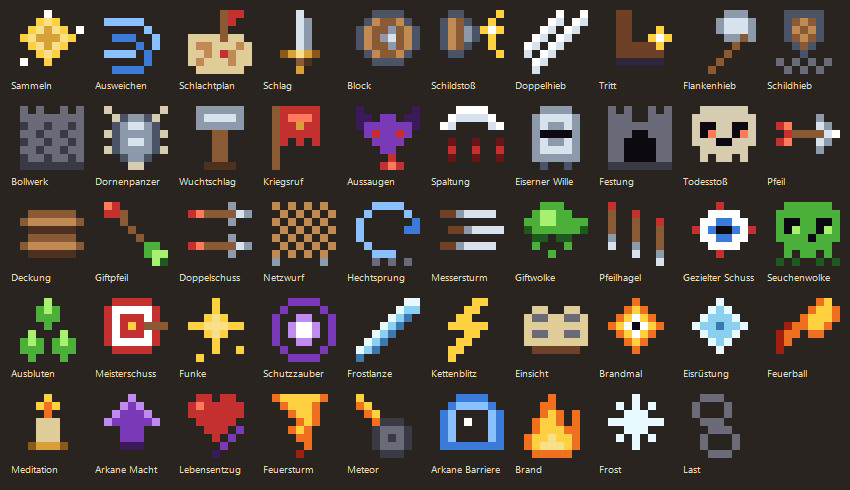
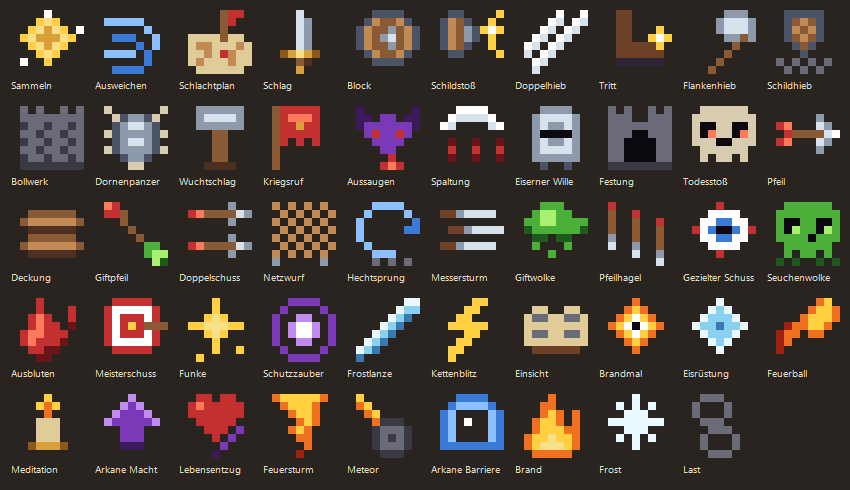
Bleeding status for Ausbluten; 8-bit card style with pixel frames and pixel fonts

Changed region(s): [[0.0, 0.6122, 0.0918, 0.7653]]

diff --git a/ui/style.css b/ui/style.css
@@ -134,63 +134,66 @@ svg.map { width: 100%; height: auto; display: block; }
 .hint { text-align: center; color: var(--acc); font-weight: 700; margin-top: 6px; }
 .hand { display: flex; gap: 12px; padding: 20px 8px 12px; justify-content: center; min-height: 216px; flex-wrap: wrap; }
 
-/* Cards. Frame shape and colour by type (--ct), background tint by owning
-   character (--oc), trim and gem by rarity (--rc). Icons are 8x8, shown 6x. */
+/* Cards, 8-bit style: pixel frame per type (border-image, 12x12 shown 2x),
+   flat colours, dithered background tinted by the owning character (--oc),
+   trim and gem by rarity (--rc), pixel font. Icons are 8x8, shown 6x. */
 .card {
-  position: relative; flex: 0 0 132px; width: 132px; height: 196px; padding: 0 0 14px;
+  --px: 2px;
+  position: relative; flex: 0 0 132px; width: 132px; height: 196px; padding: 0 0 12px;
   display: flex; flex-direction: column; text-align: left; color: var(--ink);
-  background:
-    radial-gradient(120% 55% at 50% 0%, color-mix(in srgb, var(--oc) 80%, transparent), transparent 75%),
-    repeating-linear-gradient(45deg, #ffffff06 0 2px, transparent 2px 6px),
-    linear-gradient(180deg, #1d1a1f, #110f13);
-  border: 2px solid var(--rc); border-radius: 10px;
-  box-shadow: inset 0 0 0 2px #0a0809, inset 0 0 0 3px color-mix(in srgb, var(--ct) 75%, #000), 0 4px 10px #0009;
-  transition: transform .15s, box-shadow .15s, filter .15s;
+  font-family: 'Pixelify Sans', var(--fb);
+  border: 8px solid transparent; border-image: url(assets/karten/rahmen_s.png) 4 / 8px stretch;
+  background: repeating-conic-gradient(var(--oc) 0 25%, #141016 0 50%) 0 0 / 4px 4px;
+  background-clip: padding-box; image-rendering: pixelated;
+  filter: drop-shadow(0 4px 0 #0008);
+  transition: transform .12s steps(3);
 }
-button.card:hover:not(:disabled) { transform: translateY(-8px); filter: brightness(1.08); }
-.card.sel { transform: translateY(-16px); box-shadow: inset 0 0 0 2px #0a0809, inset 0 0 0 3px var(--ct), 0 0 0 2px var(--acc), 0 10px 22px #000a; }
-button.card:disabled { opacity: .42; cursor: default; }
+button.card:hover:not(:disabled) { transform: translateY(-8px); }
+.card.sel { transform: translateY(-16px); outline: 2px solid var(--acc); outline-offset: 2px; }
+button.card:disabled { opacity: .45; cursor: default; }
 .cost {
-  position: absolute; z-index: 2; top: 4px; left: 4px; width: 26px; height: 26px; border-radius: 50%;
-  background: radial-gradient(circle at 35% 30%, #ffe9a8, var(--gold) 60%, #8a6a20); color: #251a05;
-  font-family: var(--fd); font-weight: 800; font-size: 1.05rem; display: grid; place-items: center;
-  border: 2px solid #0a0809;
+  position: absolute; z-index: 2; top: -4px; left: -4px; width: 24px; height: 24px;
+  background: #d8a038; color: #251a05; border: 2px solid #0a0809;
+  box-shadow: inset 2px 2px 0 #f8e08a, inset -2px -2px 0 #8a5a1a;
+  clip-path: polygon(2px 0, calc(100% - 2px) 0, calc(100% - 2px) 2px, 100% 2px, 100% calc(100% - 2px), calc(100% - 2px) calc(100% - 2px), calc(100% - 2px) 100%, 2px 100%, 2px calc(100% - 2px), 0 calc(100% - 2px), 0 2px, 2px 2px);
+  font-family: 'VT323', monospace; font-size: 1.35rem; line-height: 1; display: grid; place-items: center;
 }
 .cn {
-  margin: 6px 6px 0 14px; padding: 3px 8px 3px 18px; min-height: 22px;
-  background: linear-gradient(180deg, color-mix(in srgb, var(--ct) 85%, #fff2), color-mix(in srgb, var(--ct) 60%, #000));
-  clip-path: polygon(0 0, 100% 0, calc(100% - 6px) 50%, 100% 100%, 0 100%);
-  font-family: var(--fd); font-weight: 700; font-size: .98rem; line-height: 1.05; color: #fff6e6; text-shadow: 0 1px 0 #0008;
-  white-space: nowrap; overflow: hidden; text-overflow: ellipsis;
+  margin: 0 0 0 20px; padding: 3px 6px; min-height: 20px;
+  background: var(--ct); box-shadow: inset 0 2px 0 #ffffff40, inset 0 -2px 0 #00000059;
+  clip-path: polygon(0 0, 100% 0, 100% calc(100% - 4px), calc(100% - 2px) calc(100% - 4px), calc(100% - 2px) calc(100% - 2px), calc(100% - 4px) calc(100% - 2px), calc(100% - 4px) 100%, 0 100%);
+  font-weight: 700; font-size: .9rem; line-height: 1.05; color: #fff6e6; text-shadow: 1px 1px 0 #000;
+  white-space: nowrap; overflow: hidden;
 }
-.cn.long { font-size: .8rem; line-height: .95; white-space: normal; padding-top: 3px; padding-bottom: 2px; display: flex; align-items: center; }
+.cn.long { font-size: .7rem; line-height: 1; white-space: normal; display: flex; align-items: center; letter-spacing: -.02em; }
 .art {
-  margin: 5px 9px 0; height: 58px; display: grid; place-items: center; border: 1px solid var(--rc); border-radius: 4px;
-  background: radial-gradient(circle at 50% 45%, color-mix(in srgb, var(--ct) 55%, transparent), transparent 70%), #0b0a0d;
-  box-shadow: inset 0 0 0 1px #000, inset 0 0 14px #000d;
+  margin: 4px 4px 0; height: 58px; display: grid; place-items: center;
+  border: 2px solid var(--rc); box-shadow: inset 0 0 0 2px #000;
+  background: repeating-conic-gradient(color-mix(in srgb, var(--ct) 22%, #0b0a0d) 0 25%, #0b0a0d 0 50%) 0 0 / 4px 4px;
 }
-.art img { width: 48px; height: 48px; image-rendering: pixelated; filter: drop-shadow(0 2px 0 #000a); }
-.ct { margin-top: 4px; text-align: center; font-size: .6rem; text-transform: uppercase; letter-spacing: .08em; color: color-mix(in srgb, var(--ct) 45%, #fff); }
-.cx { flex: 1; margin: 3px 9px 0; font-size: .78rem; line-height: 1.18; color: #e4ddcc; text-align: center; }
-.gem { position: absolute; bottom: 5px; left: 50%; width: 8px; height: 8px; transform: translateX(-50%) rotate(45deg); background: var(--rc); box-shadow: 0 0 0 1px #000, 0 0 6px var(--rc); }
+.art img { width: 48px; height: 48px; image-rendering: pixelated; }
+.ct { margin-top: 3px; text-align: center; font-family: 'VT323', monospace; font-size: .85rem; line-height: .9; text-transform: uppercase; letter-spacing: .05em; color: color-mix(in srgb, var(--ct) 40%, #fff); }
+.cx { flex: 1; margin: 2px 4px 0; font-family: 'VT323', monospace; font-size: 1.02rem; line-height: .95; color: #efe6d2; text-align: center; text-shadow: 1px 1px 0 #000; }
+.gem {
+  position: absolute; bottom: 1px; left: calc(50% - 4px); width: 8px; height: 8px; background: var(--rc);
+  clip-path: polygon(2px 0, 6px 0, 6px 2px, 8px 2px, 8px 6px, 6px 6px, 6px 8px, 2px 8px, 2px 6px, 0 6px, 0 2px, 2px 2px);
+}
 
-/* Type: attack has cut corners, power an arched top, status looks worn. */
-.t-a { --ct: var(--atk); border-radius: 3px; clip-path: polygon(9px 0, calc(100% - 9px) 0, 100% 9px, 100% calc(100% - 9px), calc(100% - 9px) 100%, 9px 100%, 0 calc(100% - 9px), 0 9px); }
-.t-s { --ct: var(--skl); }
-.t-p { --ct: var(--pow); border-radius: 48px 48px 10px 10px / 30px 30px 10px 10px; }
-.t-p .cn { margin-top: 12px; }
-.t-x { --ct: var(--junk); border-style: dashed; filter: saturate(.6); }
-/* Owner. */
-.o-warrior { --oc: #6a2a1c; }
-.o-marksman { --oc: #1f4f2a; }
-.o-mage { --oc: #35226a; }
-.o-neutral { --oc: #3a3a44; }
+/* Type: own frame and colour. */
+.t-a { --ct: #b02a2a; border-image-source: url(assets/karten/rahmen_a.png); }
+.t-s { --ct: #2f68c0; border-image-source: url(assets/karten/rahmen_s.png); }
+.t-p { --ct: #6a32a4; border-image-source: url(assets/karten/rahmen_p.png); }
+.t-x { --ct: #5a5a66; border-image-source: url(assets/karten/rahmen_x.png); filter: saturate(.5) drop-shadow(0 4px 0 #0008); }
+/* Owner: tint of the dithered background. */
+.o-warrior { --oc: #2c1410; }
+.o-marksman { --oc: #10241a; }
+.o-mage { --oc: #1e1434; }
+.o-neutral { --oc: #1e1e24; }
 /* Rarity. */
 .r-start { --rc: #6e6a72; }
 .r-common { --rc: #a8743e; }
 .r-uncommon { --rc: #a8c8e4; }
 .r-rare { --rc: #f0c050; }
-.r-rare { box-shadow: inset 0 0 0 2px #0a0809, inset 0 0 0 3px color-mix(in srgb, var(--ct) 75%, #000), 0 0 12px #f0c05066, 0 4px 10px #0009; }
 .r-junk { --rc: #4a4a50; }
 .card.up .cn { color: #c8ffb8; }
 .grid { display: flex; flex-wrap: wrap; gap: 18px; justify-content: center; padding: 14px 0; }

diff --git a/ui/index.html b/ui/index.html
@@ -7,7 +7,7 @@
     <link rel="preconnect" href="https://fonts.googleapis.com" />
     <link rel="preconnect" href="https://fonts.gstatic.com" crossorigin />
     <link
-      href="https://fonts.googleapis.com/css2?family=Alegreya+Sans:wght@400;500;700&family=Grenze+Gotisch:wght@500;700;800&display=swap"
+      href="https://fonts.googleapis.com/css2?family=Alegreya+Sans:wght@400;500;700&family=Grenze+Gotisch:wght@500;700;800&family=Pixelify+Sans:wght@400;700&family=VT323&display=swap"
       rel="stylesheet"
     />
     <link data-trunk rel="css" href="style.css" />

diff --git a/engine/src/combat.rs b/engine/src/combat.rs
@@ -51,12 +51,16 @@ pub struct Statuses {
     pub poison: u32,
     /// Dornen: attackers take this much damage per hit (player only).
     pub thorns: u32,
+    /// Blutung: loses this much HP after each of its own attacks, ignoring
+    /// block; drops by 1 at the end of its turn (enemies only).
+    pub bleed: u32,
 }
 
 impl Statuses {
     fn tick_debuffs(&mut self) {
         self.weak = self.weak.saturating_sub(1);
         self.vulnerable = self.vulnerable.saturating_sub(1);
+        self.bleed = self.bleed.saturating_sub(1);
     }
 
     /// Applies poison damage to `hp` and lowers poison by 1. Ignores block.
@@ -109,6 +113,7 @@ pub fn needs_target(card: &Card) -> bool {
         || e.poison > 0
         || e.weak > 0
         || e.vulnerable > 0
+        || e.bleed > 0
         || e.double_poison)
         && !e.all_enemies
 }
@@ -191,6 +196,8 @@ pub enum LogEntry {
     Burn { hp_lost: i32 },
     /// Thorns hit an attacker.
     Thorns { enemy: usize, damage: i32 },
+    /// A bleeding enemy lost HP after its attack.
+    Bleed { enemy: usize, damage: i32 },
     /// An enemy died.
     EnemyDied { enemy: usize },
 }
@@ -487,6 +494,7 @@ impl Combat {
             enemy.status.poison += e.poison;
             enemy.status.weak += e.weak;
             enemy.status.vulnerable += e.vulnerable;
+            enemy.status.bleed += e.bleed;
             if e.double_poison {
                 enemy.status.poison *= 2;
             }
@@ -706,6 +714,20 @@ impl Combat {
                     }
                 }
                 self.push_log(LogEntry::EnemyAttack { enemy: i, hp_lost });
+                // Bleeding: every own attack opens the wound again.
+                let damage = self.enemies[i].status.bleed as i32;
+                if damage > 0 && !self.enemies[i].dead {
+                    let enemy = &mut self.enemies[i];
+                    enemy.hp -= damage;
+                    let died = enemy.hp <= 0;
+                    if died {
+                        enemy.dead = true;
+                    }
+                    self.push_log(LogEntry::Bleed { enemy: i, damage });
+                    if died {
+                        self.push_log(LogEntry::EnemyDied { enemy: i });
+                    }
+                }
             }
             if self.enemies[i].dead {
                 self.check();

diff --git a/engine/src/combat/tests.rs b/engine/src/combat/tests.rs
@@ -10,6 +10,7 @@ const TEST_CARDS: &str = r#"[
   {"id":"whirl","name":"Wirbel","kind":"attack","cost":1,"rarity":"common","tags":["slash","area"],"effects":{"damage":5,"all_enemies":true}},
   {"id":"venom","name":"Giftpfeil","kind":"attack","cost":1,"rarity":"common","tags":["poison","throw"],"effects":{"damage":3,"poison":4}},
   {"id":"decay","name":"Ausbluten","kind":"skill","cost":1,"rarity":"rare","tags":["poison"],"effects":{"double_poison":true}},
+  {"id":"cut","name":"Ausbluten","kind":"attack","cost":1,"rarity":"rare","tags":["throw"],"effects":{"damage":3,"bleed":5}},
   {"id":"slam","name":"Schildhieb","kind":"attack","cost":1,"rarity":"common","tags":["shield"],"effects":{"block_damage":true}},
   {"id":"thorn","name":"Dornenpanzer","kind":"skill","cost":1,"rarity":"common","tags":["block"],"effects":{"block":4,"thorns":3}},
   {"id":"warcry","name":"Kriegsruf","kind":"power","cost":1,"rarity":"uncommon","tags":["slash"],"effects":{"strength":2}},
@@ -776,4 +777,35 @@ fn greedy_fights_always_end() {
         }
         assert!(c.is_over(), "seed {seed} did not finish");
     }
+}
+
+#[test]
+fn bleed_hurts_the_enemy_after_each_of_its_attacks() {
+    let (mut c, mut rng) = start(&["dummy"]);
+    set_hand(&mut c, &["cut"]);
+    play(&mut c, &mut rng, 0, Some(0));
+    assert_eq!((c.enemies[0].hp, c.enemies[0].status.bleed), (37, 5));
+    c.end_turn(&cards(), &mut rng).unwrap();
+    // Attacked once: loses 5, then the bleeding drops to 4.
+    assert_eq!((c.enemies[0].hp, c.enemies[0].status.bleed), (32, 4));
+    assert!(c.log.contains(&LogEntry::Bleed { enemy: 0, damage: 5 }));
+}
+
+#[test]
+fn bleed_only_triggers_on_attacks_but_still_wears_off() {
+    let (mut c, mut rng) = start(&["idle"]);
+    set_hand(&mut c, &["cut"]);
+    play(&mut c, &mut rng, 0, Some(0));
+    c.end_turn(&cards(), &mut rng).unwrap();
+    assert_eq!((c.enemies[0].hp, c.enemies[0].status.bleed), (17, 4));
+}
+
+#[test]
+fn bleed_can_win_the_fight() {
+    let (mut c, mut rng) = start(&["dummy"]);
+    c.enemies[0].hp = 4;
+    c.enemies[0].status.bleed = 5;
+    set_hand(&mut c, &[]);
+    c.end_turn(&cards(), &mut rng).unwrap();
+    assert_eq!(c.outcome, Some(Outcome::Win));
 }

diff --git a/ui/src/text.rs b/ui/src/text.rs
@@ -30,6 +30,9 @@ pub fn card_text(card: &Card, damage: i32, block: i32) -> String {
     if e.double_poison {
         parts.push("Verdopple das Gift des Ziels.".into());
     }
+    if e.bleed > 0 {
+        parts.push(format!("{} Blutung.", e.bleed));
+    }
     if e.weak > 0 {
         parts.push(format!("Schwäche {}.", e.weak));
     }
@@ -167,6 +170,11 @@ pub fn status_chips(s: &Statuses) -> Vec<(&'static str, i32, &'static str)> {
         "Gift: verliert zu Rundenbeginn LP, danach sinkt das Gift um 1",
     );
     add(
+        s.bleed as i32,
+        "🩸",
+        "Blutung: verliert nach jedem eigenen Angriff so viele LP, danach sinkt die Blutung jede Runde um 1",
+    );
+    add(
         s.thorns as i32,
         "🌵",
         "Dornen: wer dich angreift, erleidet Schaden",
@@ -239,6 +247,9 @@ pub fn log_line(entry: &LogEntry, combat: &Combat) -> String {
         LogEntry::Burn { hp_lost } => format!("Brand: {hp_lost} Schaden."),
         LogEntry::Thorns { enemy, damage } => {
             format!("Dornen treffen {} für {damage}.", name(enemy))
+        }
+        LogEntry::Bleed { enemy, damage } => {
+            format!("{} blutet und verliert {damage}.", name(enemy))
         }
         LogEntry::EnemyDied { enemy } => format!("{} fällt.", name(enemy)),
     }

diff --git a/ui/src/views.rs b/ui/src/views.rs
@@ -302,7 +302,7 @@ fn card_inner(card: &Card, upgraded: bool, damage: i32, block: i32) -> AnyView {
         .collect::<Vec<_>>()
         .join(" · ");
     // Long names get a smaller font and may wrap in the banner.
-    let name_class = if name.chars().count() > 10 { "cn long" } else { "cn" };
+    let name_class = if name.chars().count() > 9 { "cn long" } else { "cn" };
     let type_line = if tags.is_empty() {
         card.kind.name().to_string()
     } else {
@@ -681,6 +681,7 @@ fn combat_screen(game: Game, run: &Run, c: &Combat) -> AnyView {
                     <p>
                         "💪 Stärke: +1 Schaden pro Punkt bei jedem Angriff · 🥀 Schwäche: 25 % weniger Schaden · "
                         "🎯 Verwundbar: 50 % mehr Schaden erlitten · 🧪 Gift: verliert zu Rundenbeginn LP, dann sinkt es um 1 · "
+                        "🩸 Blutung: Gegner verliert nach jedem eigenen Angriff LP, sinkt jede Runde um 1 · "
                         "🌵 Dornen: Angreifer erleiden Schaden · 🛡 Block: hält Schaden ab, verfällt zu Rundenbeginn"
                     </p>
                 </details>

diff --git a/engine/src/bot/smart.rs b/engine/src/bot/smart.rs
@@ -184,7 +184,10 @@ fn evaluate(combat: &Combat, data: &GameData) -> f64 {
         .enemies
         .iter()
         .filter(|e| !e.dead)
-        .map(|e| f64::from(e.hp) - poison_left(e.status.poison, e.hp) + f64::from(e.block) * 0.3)
+        .map(|e| {
+            f64::from(e.hp) - poison_left(e.status.poison, e.hp) - poison_left(e.status.bleed, e.hp) * 0.6
+                + f64::from(e.block) * 0.3
+        })
         .sum();
     let p = &sim.player;
     match sim.outcome {
@@ -234,6 +237,8 @@ pub fn card_value(card: &Card, bonus: &CombatBonus) -> f64 {
     let mut v = damage * f64::from(e.hits.max(1)) * area;
     v += block * 0.8;
     v += f64::from(e.poison) * 1.6 * area;
+    // Bleeding only triggers on attacks, so it is worth a bit less than poison.
+    v += f64::from(e.bleed) * 1.4 * area;
     v += f64::from(e.weak) * 2.5 * area;
     v += f64::from(e.vulnerable) * 3.0 * area;
     v += f64::from(e.thorns) * 2.5;

diff --git a/engine/src/card.rs b/engine/src/card.rs
@@ -113,6 +113,8 @@ pub struct Effects {
     pub vulnerable: u32,
     /// `thorns`
     pub thorns: u32,
+    /// Blutung on the target (not in the prototype, replaces `dblpsn` on Ausbluten).
+    pub bleed: u32,
     /// `str`
     pub strength: u32,
     /// `heal`
@@ -202,6 +204,7 @@ impl Card {
         add(&mut e.heal, 3, &mut changed);
         add(&mut e.strength, 1, &mut changed);
         add(&mut e.thorns, 2, &mut changed);
+        add(&mut e.bleed, 2, &mut changed);
         add(&mut e.weak, 1, &mut changed);
         add(&mut e.vulnerable, 1, &mut changed);
         if !changed {

diff --git a/CLAUDE.md b/CLAUDE.md
@@ -13,7 +13,9 @@ Deckbuilder-Roguelike als reine Web-App (Rust + WebAssembly, statisch auf Cloudf
 - `assets/`: Quellen der Grafiken, `assets/bauen.ps1` erzeugt alle neu und kopiert sie nach `ui/assets/`.
   - `portraets/basis/*.txt`: Porträts als Textraster (ein Zeichen pro Pixel, Palette im Kopf); `portraets/animationen.ps1` baut daraus die Spritesheets (Frames nebeneinander).
   - `karten/karten.ps1`: ein 8 × 8-Symbol pro Karte (`ui/assets/karten/<id>.png`, im Spiel 6-fach), von Hand als Raster mit gemeinsamer Palette. Eine neue Karte braucht dort einen Eintrag, sonst bricht das Skript ab.
-- Kartendesign (CSS): Rahmenform und Farbe nach Typ (Angriff abgeschrägte Ecken, Fertigkeit rund, Kraft Bogen, Status gestrichelt), Hintergrundtönung nach Klasse, Rahmen und Edelstein nach Seltenheit.
+  - `karten/rahmen.ps1`: 8-Bit-Pixelrahmen je Kartentyp (12 × 12, als CSS `border-image` 2-fach).
+- Kartendesign im 8-Bit-Stil: Pixelrahmen je Typ (Angriff abgeschrägt, Fertigkeit gerundet, Kraft mit Goldnieten, Status angeschlagen), geditherter Hintergrund nach Klasse, Bildrahmen und Edelstein nach Seltenheit, Pixelschriften „Pixelify Sans“ (Namen) und „VT323“ (Texte, Zahlen).
+- Blutung (`Statuses::bleed`, Karteneffekt `bleed`): neu, nicht aus dem Prototyp. Ein Gegner mit Blutung X verliert nach jedem eigenen Angriff X LP (Block hilft nicht); am Ende seines Zuges sinkt die Blutung um 1. Ausbluten (Schütze, selten) ist dafür ein Wurf-Angriff mit 3 Schaden und 5 Blutung statt „Gift verdoppeln“.
   - `hintergrund/{wald,wueste,festung}.ps1`: ein Hintergrund pro Gebiet (CSS-Klasse `bg-<region-id>`), gemeinsame Helfer in `pixel.ps1`.
   - Die fertigen PNGs in `ui/assets/` sind eingecheckt und werden von Trunk mitkopiert. Die Skripte brauchen Windows-PowerShell (System.Drawing).
 - `data/`: Spielinhalte als JSON (per serde geladen, in die engine eingebettet). Neue Inhalte sind neue Einträge, kein neuer Code.
